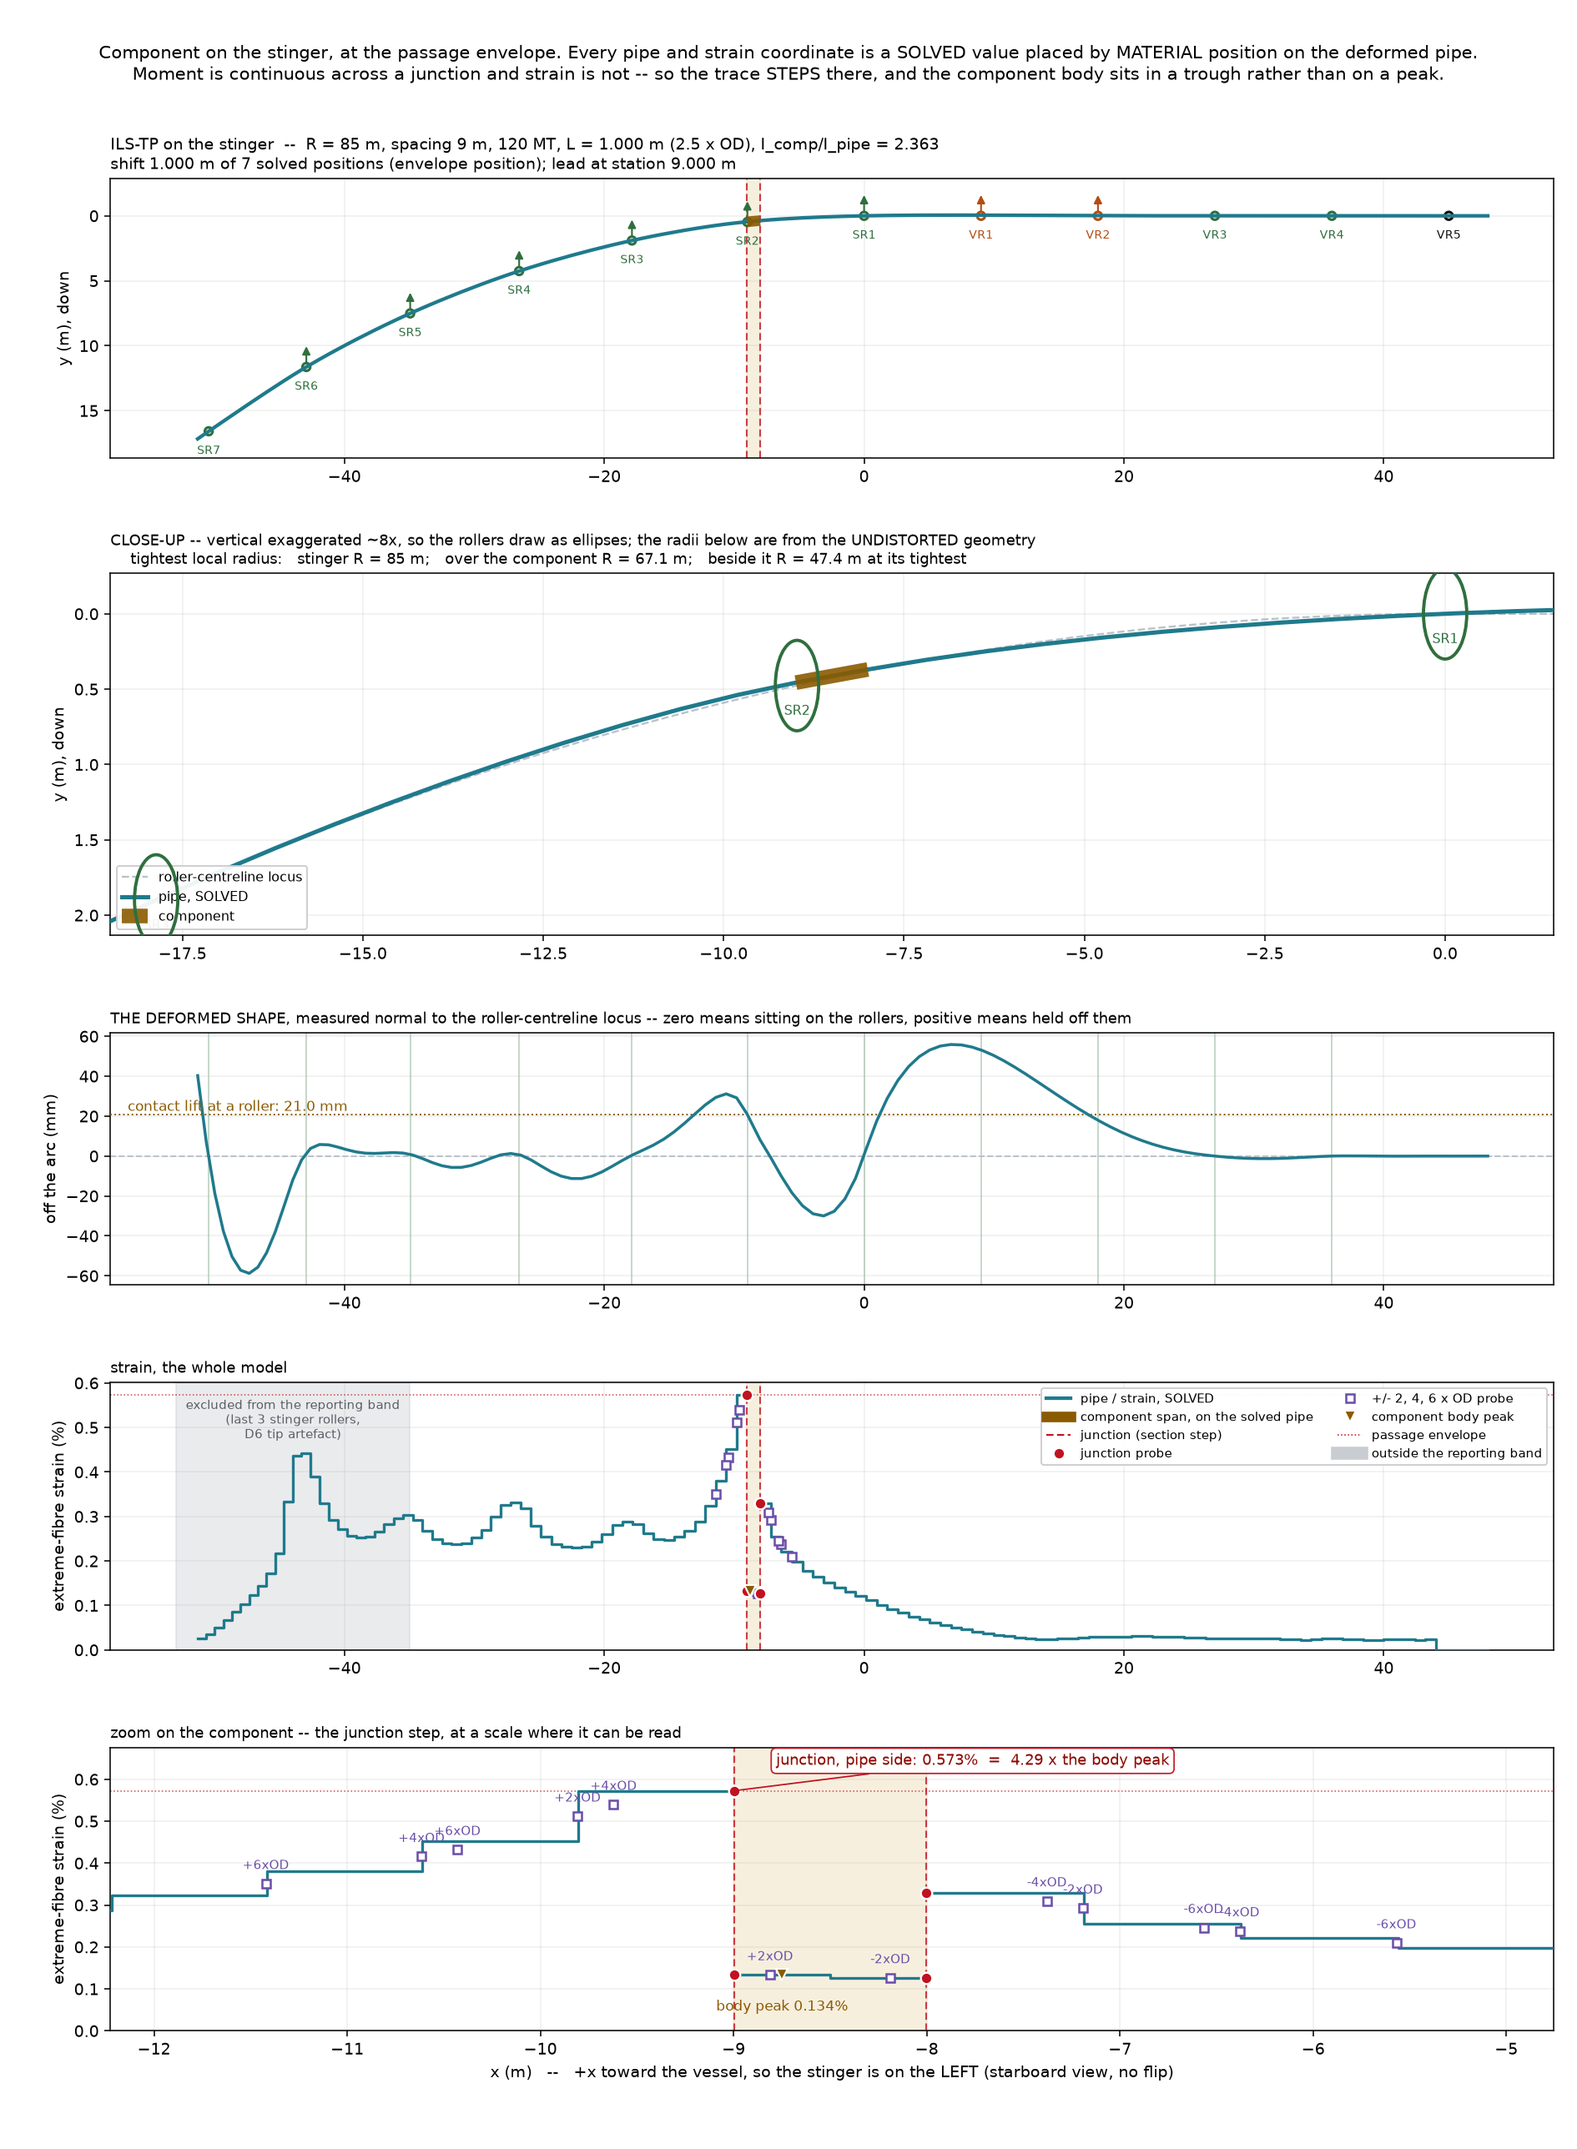
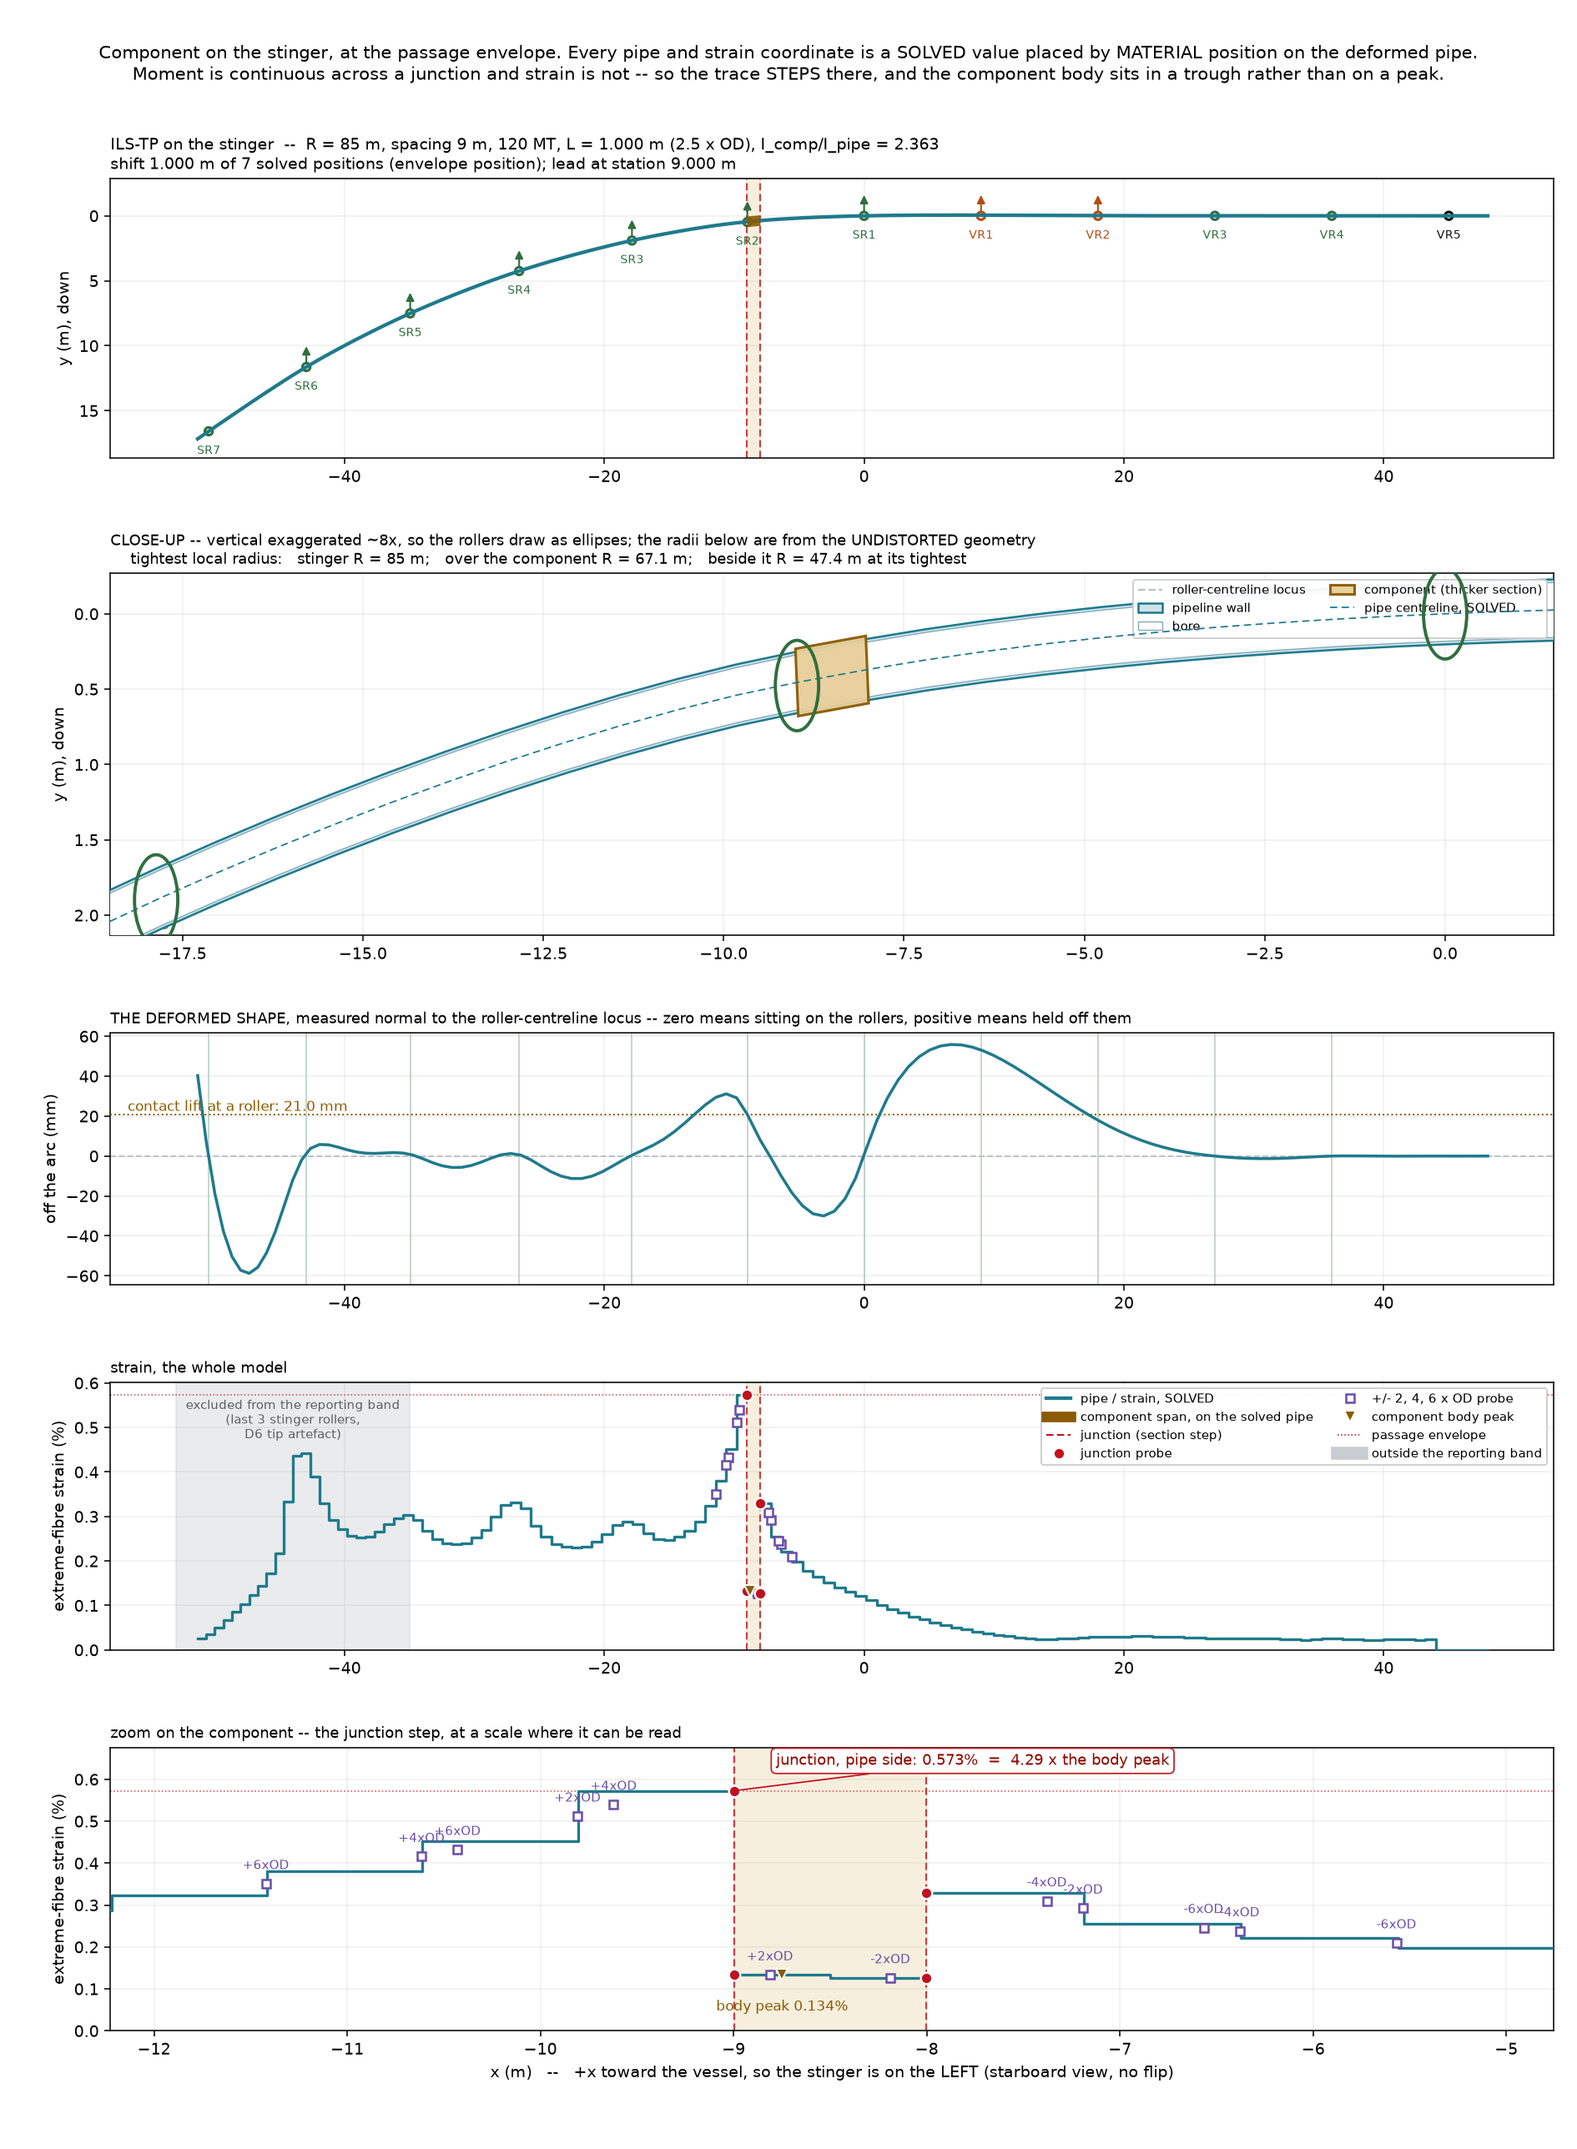
Draw the pipe and the component as bodies, not as a line with a stripe
The close-up drew the pipeline as a polyline with a thick coloured segment
on it. That said nothing about how deep a component was, which side of the
pipe it sat on, or -- for a shroud -- that it hangs BELOW the pipe rather
than replacing part of it. The shroud in particular had no outline at all.

BOTH OUTLINES COME FROM THE ASSEMBLY, and the two kinds of body follow
DIFFERENT rules because they are different things:

  A body that changes the SECTION (GD-TP, GD-TT) is drawn at its own
  `section_at(x).OD` about the centreline -- it replaces the pipe wall over
  its span, and draws straddling the centreline.

  A body that only changes the CONTACT (GD-SH) is drawn from the pipe's own
  bottom down to `contact_at(x).y`, and hangs below. `section_at` returns
  the PIPE section right through a shroud because a shroud adds no bending
  stiffness -- its `stiffness_ratio` is 1.0 and says so -- so drawing it at
  a section OD would invent a stiffness the model does not have.

The pipeline is now a 2D body: wall at OD/2 and bore at OD/2 - t, both
offset along the pipe's LOCAL NORMAL rather than vertically. The pipe turns
through 0.64 rad over the stinger, so a wall drawn by adding OD/2 to `y`
would be 20% narrow at SR7 and perpendicular to the pipe nowhere on the arc.

RESAMPLED OFF THE COMPONENT, NOT THE MESH. At the ruled 2xOD density a 6 m
shroud spans SEVEN nodes, its taper ends fall between them, and the first
[…]

Changed region(s): [[0.3746, 0.2484, 0.9989, 0.3416], [0.0624, 0.3727, 0.2497, 0.4348], [0.2497, 0.3416, 0.3746, 0.3727]]

diff --git a/tools/plot_stinger.py b/tools/plot_stinger.py
@@ -230,7 +230,7 @@ def component_case(arch_id='ILS-TP', R=85.0, spacing=9.0,
     ms, _mdl, _ix = mesh_of_problem(p)
     slots = ctc.slots_from_targets(p.contacts, ms)
     return dict(scene=sc, model=m, problem=p, result=pos.result, ms=ms,
-                slots=slots, s_centre=s_centre, L_comp=L, OD=OD,
+                slots=slots, s_centre=s_centre, L_comp=L, OD=OD, ils=ils,
                 position=pos, records=recs, envelope=env, note=note,
                 n_positions=len(positions))
 
@@ -276,6 +276,122 @@ def s_to_x(m, ms, U, shift=0.0):
     xv = np.array([world(at[i].s + shift, at[i].y,
                          U[dof(ms, i, 0)], U[dof(ms, i, 1)])[0] for i in ids])
     return lambda q: np.interp(q, sv, xv)
+
+
+def offset_polyline(px, py, dist):
+    """Offset a polyline by `dist` along its LOCAL NORMAL, which on this
+    path points DOWN (+y, toward the rollers).
+
+    NOT a vertical offset. The pipe is bent to a 33-85 m radius and over the
+    stinger its tangent turns through 0.64 rad, so a wall drawn by adding
+    OD/2 to `y` would be up to 20% too narrow at SR7 and would not be
+    perpendicular to the pipe anywhere on the arc. `dist` may be a scalar or
+    a per-point sequence, which is what lets a tapered body be drawn.
+
+    The normal is the tangent rotated to (t_y, -t_x): node order runs in
+    -x (s increases toward the stinger while x = -(s + shift)), so on the
+    deck t = (-1, 0) and the normal comes out (0, +1) -- down, the side the
+    rollers are on.
+    """
+    import numpy as _np
+    px, py = _np.asarray(px, float), _np.asarray(py, float)
+    d = _np.full(len(px), float(dist)) if _np.isscalar(dist) \
+        else _np.asarray(dist, float)
+    tx = _np.gradient(px)
+    ty = _np.gradient(py)
+    n = _np.hypot(tx, ty)
+    n[n == 0] = 1.0
+    tx, ty = tx / n, ty / n
+    return px + d * ty, py - d * tx
+
+
+def body_outlines(m, ms, U, ils, s_centre, OD, shift=0.0):
+    """Closed outlines for the pipe wall, its bore, and the component.
+
+    DRAWN FROM THE ASSEMBLY, never invented here. Two different rules,
+    because the two kinds of body are different things:
+
+      A body that changes the SECTION (GD-TP, GD-TT) is drawn at its own
+      `section_at(x).OD` about the centreline -- it replaces the pipe wall
+      over its span.
+
+      A body that only changes the CONTACT (GD-SH) is drawn from the pipe's
+      own bottom down to `contact_at(x).y`. `section_at` returns the pipe
+      section right through a shroud, because a shroud adds no bending
+      stiffness; drawing it at a section OD would invent a stiffness the
+      model does not have.
+
+    Returns {'pipe': (x, y), 'bore': (x, y), 'body': (x, y) or None,
+             'shroud': (x, y) or None}, each a CLOSED ring ready for `fill`.
+    """
+    import numpy as _np
+    at = {n.index: n for n in m.nodes}
+    ids = sorted({i for e in m.elements if e.owner == 'pipeline'
+                  for i in (e.n1, e.n2)}, key=lambda i: at[i].s)
+    s_nodes, x_nodes, y_nodes = [], [], []
+    for i in ids:
+        s_mat = at[i].s
+        wx, wy = world(s_mat + shift, at[i].y,
+                       U[dof(ms, i, 0)], U[dof(ms, i, 1)])
+        s_nodes.append(s_mat)
+        x_nodes.append(wx)
+        y_nodes.append(wy)
+
+    # RESAMPLED, because the STRUCTURAL mesh is not a drawing grid. At the
+    # ruled 2xOD density a 6 m shroud spans seven nodes, its taper ends fall
+    # BETWEEN them, and the outline came out with a 95 mm step where the
+    # geometry goes to zero -- a drawn shape the component does not have.
+    # The centreline is interpolated finely and the assembly is asked at
+    # every sample, so the outline follows the component rather than the
+    # mesh that happens to carry it.
+    s_dense = _np.linspace(min(s_nodes), max(s_nodes), 2000)
+    px = list(_np.interp(s_dense, s_nodes, x_nodes))
+    py = list(_np.interp(s_dense, s_nodes, y_nodes))
+    xloc = [s_centre - q for q in s_dense]
+
+    def ring(d_lo, d_hi):
+        ax_, ay_ = offset_polyline(px, py, d_lo)
+        bx_, by_ = offset_polyline(px, py, d_hi)
+        return (_np.concatenate([ax_, bx_[::-1]]),
+                _np.concatenate([ay_, by_[::-1]]))
+
+    out = {'pipe': ring(-OD / 2.0, OD / 2.0), 'body': None, 'shroud': None}
+    t_wall = None
+    sec_od, con_y, in_sec, in_con = [], [], [], []
+    for xq in xloc:
+        sec = ils.assembly.section_at(xq) if ils is not None else None
+        con = ils.assembly.contact_at(xq) if ils is not None else None
+        sec_od.append(getattr(sec, 'OD', OD) if sec else OD)
+        if t_wall is None and sec is not None:
+            t_wall = getattr(sec, 't', None)
+        con_y.append(getattr(con, 'y', OD / 2.0) if con else OD / 2.0)
+        in_sec.append(bool(sec) and getattr(sec, 'owner', 'pipe') != 'pipe')
+        in_con.append(bool(con) and getattr(con, 'owner', 'pipe') != 'pipe')
+    tw = t_wall if t_wall else 0.021
+    out['bore'] = ring(-(OD / 2.0 - tw), OD / 2.0 - tw)
+
+    def span(mask):
+        idx = [k for k, v in enumerate(mask) if v]
+        return (min(idx), max(idx)) if idx else None
+
+    sp = span(in_sec)
+    if sp:
+        a, b = sp
+        half = _np.array(sec_od[a:b + 1]) / 2.0
+        lo_x, lo_y = offset_polyline(px[a:b + 1], py[a:b + 1], -half)
+        hi_x, hi_y = offset_polyline(px[a:b + 1], py[a:b + 1], half)
+        out['body'] = (_np.concatenate([lo_x, hi_x[::-1]]),
+                       _np.concatenate([lo_y, hi_y[::-1]]))
+    sp = span([c and not t for c, t in zip(in_con, in_sec)])
+    if sp:
+        a, b = sp
+        deep = _np.array(con_y[a:b + 1])
+        lo_x, lo_y = offset_polyline(px[a:b + 1], py[a:b + 1],
+                                     _np.full(len(deep), OD / 2.0))
+        hi_x, hi_y = offset_polyline(px[a:b + 1], py[a:b + 1], deep)
+        out['shroud'] = (_np.concatenate([lo_x, hi_x[::-1]]),
+                         _np.concatenate([lo_y, hi_y[::-1]]))
+    return out
 
 
 def menger_curvature(xs, ys):
@@ -551,6 +667,11 @@ def plot(cases, out):
     print(f'\nwrote {_rel(out)}')
 
 
+def ils_of(c):
+    """The assembly a component case was built from, or None for plain pipe."""
+    return c.get('ils')
+
+
 def plot_component(c, out):
     """Two panels on one axis: the solved geometry, and the strain trace.
 
@@ -670,10 +791,25 @@ def plot_component(c, out):
     axy = [sc.path.position(v) for v in arc_s]
     ex.plot([q[0] for q in axy], [q[1] for q in axy], color='#b9c2cb',
             lw=1.2, ls='--', zorder=1, label='roller-centreline locus')
-    ex.plot(px, py, color='#1f7a8c', lw=2.6, zorder=5, label='pipe, SOLVED')
-    if seg:
-        ex.plot(sx, sy, color='#8a5a00', lw=9.0, solid_capstyle='butt',
-                zorder=6, alpha=0.9, label='component')
+    # THE PIPE AS A BODY, and the component as its own OUTLINE, both offset
+    # along the pipe's local normal from the assembly's own geometry -- not
+    # a line with a thick stripe on it, which said nothing about how deep
+    # the component was or which side of the pipe it sat on.
+    rings = body_outlines(m, ms, U, ils_of(c), s_c, OD, sh)
+    ex.fill(rings['pipe'][0], rings['pipe'][1], facecolor='#cfe3ea',
+            edgecolor='#1f7a8c', lw=1.3, zorder=4, label='pipeline wall')
+    ex.fill(rings['bore'][0], rings['bore'][1], facecolor='white',
+            edgecolor='#7fa9b8', lw=0.7, zorder=5, label='bore')
+    if rings['body'] is not None:
+        ex.fill(rings['body'][0], rings['body'][1], facecolor='#e8cf9a',
+                edgecolor='#8a5a00', lw=1.6, zorder=6, alpha=0.95,
+                label='component (thicker section)')
+    if rings['shroud'] is not None:
+        ex.fill(rings['shroud'][0], rings['shroud'][1], facecolor='#e8cf9a',
+                edgecolor='#8a5a00', lw=1.6, zorder=6, alpha=0.95,
+                label='shroud (contact surface only)')
+    ex.plot(px, py, color='#1f7a8c', lw=0.9, ls=(0, (5, 3)), zorder=7,
+            label='pipe centreline, SOLVED')
     for st_ in sc.stations:
         if not (lo_x - 2 <= st_.x <= hi_x + 2):
             continue
@@ -698,7 +834,7 @@ def plot_component(c, out):
         ex.invert_yaxis()
     ex.grid(alpha=0.2)
     ex.set_ylabel('y (m), down')
-    ex.legend(fontsize=8, loc='lower left', framealpha=0.93)
+    ex.legend(fontsize=7.5, loc='upper right', ncol=2, framealpha=0.94)
 
     # LOCAL RADIUS OF CURVATURE, read off the deformed pipe itself and set
     # against the stinger's own R. This is the number the close-up exists to

diff --git a/rebuild/tests/test_plot_placement.py b/rebuild/tests/test_plot_placement.py
@@ -98,3 +98,94 @@ def test_the_excluded_band_covers_the_stinger_end_not_the_vessel_end(swept):
     assert hi < 0.0, 'and stops on the stinger side of the deck, not past it'
     # The vessel end must be OUTSIDE the shaded band -- the defect put it in.
     assert max(xs) > hi, 'the vessel end is in the reporting band'
+
+
+# -- drawing the bodies ----------------------------------------------------
+
+def test_the_offset_is_perpendicular_not_vertical():
+    """The pipe turns through 0.64 rad over the stinger, so a wall drawn by
+    adding OD/2 to `y` would be up to 20% narrow at SR7 and perpendicular to
+    the pipe nowhere on the arc."""
+    import math
+    t = [i * 0.1 for i in range(40)]
+    px = [q for q in t]
+    py = [q for q in t]                       # a 45 degree line
+    ox, oy = ps.offset_polyline(px, py, 1.0)
+    mid = len(t) // 2
+    dx, dy = ox[mid] - px[mid], oy[mid] - py[mid]
+    assert math.hypot(dx, dy) == pytest.approx(1.0, abs=1e-6), \
+        'the offset distance is the distance asked for'
+    assert dx * 1.0 + dy * 1.0 == pytest.approx(0.0, abs=1e-6), \
+        'and it is perpendicular to the line, not vertical'
+
+
+def test_the_offset_points_toward_the_rollers():
+    """Node order runs in -x, so the normal must come out +y (down), the
+    side the rollers are on. The opposite sign would hang every component
+    above the pipe."""
+    px = [-q for q in range(20)]
+    py = [0.0] * 20
+    _ox, oy = ps.offset_polyline(px, py, 0.2)
+    assert oy[5] > 0.0
+
+
+_RING_CACHE = {}
+
+
+def _rings(aid):
+    """Cached: `component_case` solves a WHOLE PASSAGE, and five tests asking
+    for it separately added about two minutes to the suite for no extra
+    coverage."""
+    if aid not in _RING_CACHE:
+        c = ps.component_case(aid)
+        _RING_CACHE[aid] = (c, ps.body_outlines(
+            c['model'], c['ms'], c['result'].U, c['ils'], c['s_centre'],
+            c['OD'], c['position'].shift))
+    return _RING_CACHE[aid]
+
+
+def _thickness(ring):
+    import numpy as np
+    rx, ry = ring
+    n = len(rx) // 2
+    return np.hypot(rx[n:][::-1] - rx[:n], ry[n:][::-1] - ry[:n])
+
+
+def test_the_pipe_is_drawn_with_its_own_wall_thickness():
+    _c, r = _rings('ILS-TP')
+    t = _thickness((r['pipe'][0], r['pipe'][1]))
+    bore = _thickness(r['bore'])
+    assert t.min() == pytest.approx(0.4064, abs=1e-6)
+    assert (t - bore).min() / 2.0 == pytest.approx(0.021, abs=1e-6)
+
+
+def test_a_section_changing_body_is_drawn_at_its_own_OD():
+    """GD-TP replaces the pipe wall over its span, so it is drawn at
+    `section_at(x).OD` and is CONSTANT -- a plain thick pipe does not
+    taper."""
+    _c, r = _rings('ILS-TP')
+    assert r['body'] is not None and r['shroud'] is None
+    t = _thickness(r['body'])
+    assert t.min() == pytest.approx(0.4484, abs=1e-4)
+    assert t.max() == pytest.approx(t.min(), abs=1e-6), 'constant, no taper'
+
+
+def test_a_contact_only_body_is_NOT_drawn_at_a_section_OD():
+    """THE DISTINCTION THIS ENCODES. `section_at` returns the PIPE section
+    right through a shroud, because a shroud adds no bending stiffness.
+    Drawing it at a section OD would invent a stiffness the model does not
+    have -- and its `stiffness_ratio` is 1.0, which says so."""
+    _c, r = _rings('ILS-SH')
+    assert r['shroud'] is not None and r['body'] is None
+    t = _thickness(r['shroud'])
+    assert t.max() == pytest.approx(0.2032, abs=1e-3), 'V - OD/2 at the plateau'
+    assert t.min() < 0.01, 'and it goes to zero at the taper ends'
+
+
+def test_the_outline_is_resampled_off_the_component_not_the_mesh():
+    """At the ruled 2xOD density a 6 m shroud spans seven NODES and its
+    taper ends fall between them, which drew a 95 mm step where the geometry
+    goes to zero."""
+    _c, r = _rings('ILS-SH')
+    assert len(r['shroud'][0]) // 2 > 40, 'far more points than mesh nodes'
+
